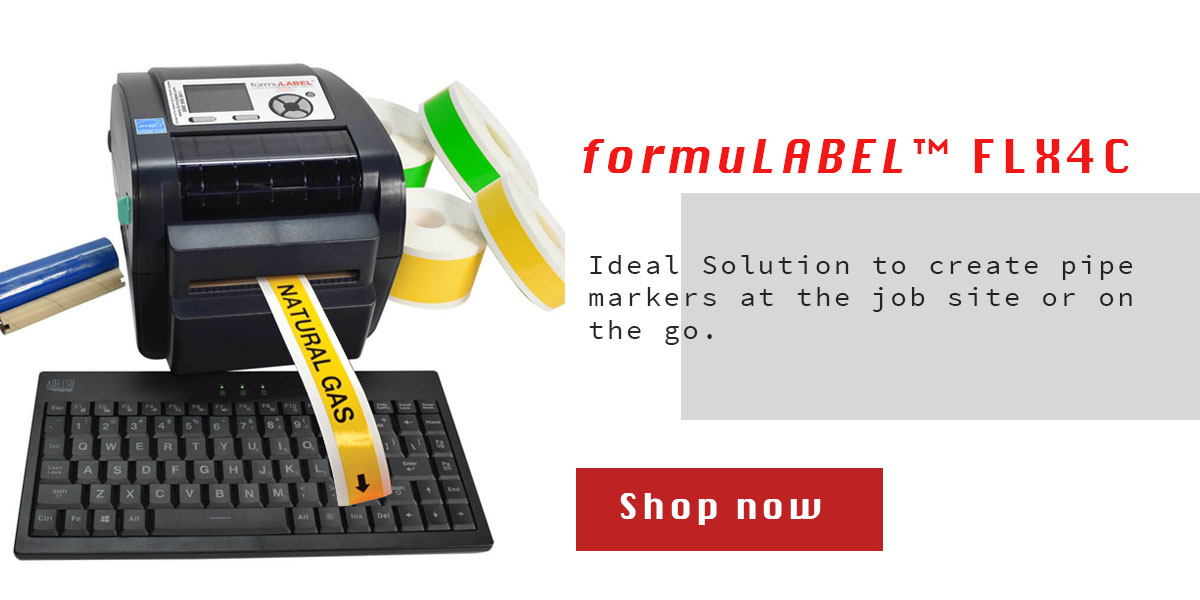
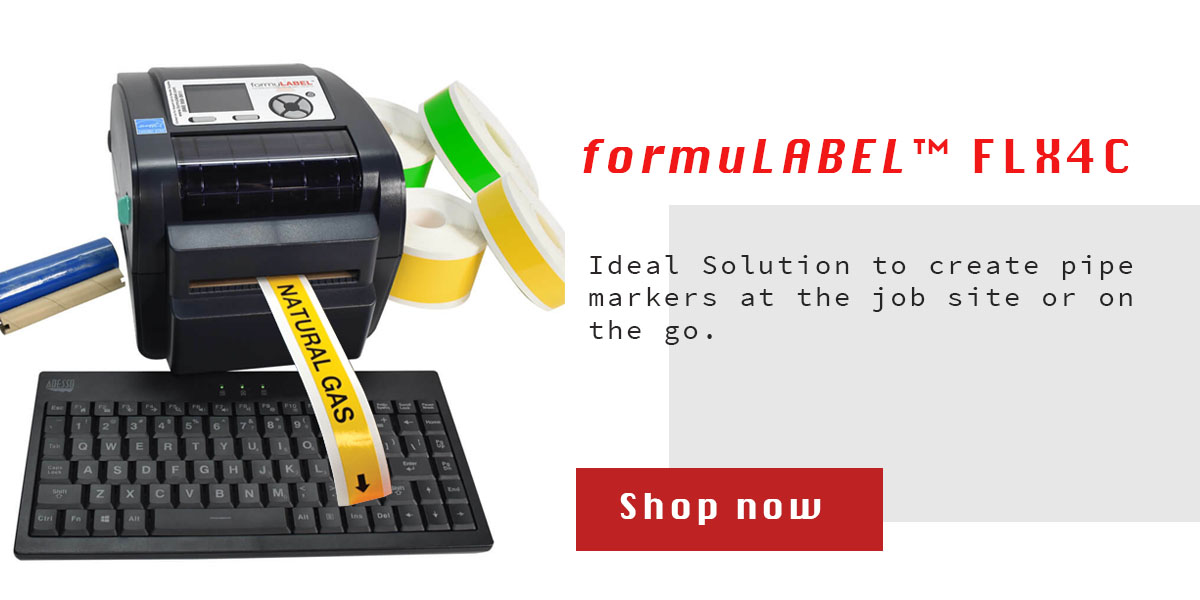
Updated higher resolution images

Changed region(s): [[0.555, 0.3, 1.0, 0.36]]

diff --git a/index.html b/index.html
@@ -67,52 +67,52 @@
 
     <section class="featured-product__container">
         <div class="featured-product__box">
-            <img class="featured-product__image" src="img/flx4c-printer-only240.240.jpg" />
+            <img class="featured-product__image" src="img/handheld_label_printer_LS8EQ_KIT_01.1200.1200.png" />
             <div class="featured-product__details">
                 <h2 class="featured-product__details-name">
-                    Product Name
+                    PanTher LS8EQ Handheld Printer Kit
                 </h2>
                 <p class="featured-product__details-price">
-                    $35.00
+                    $495.95
                 </p>
             </div>
             <button class="btn featured-product__btn"><a href="#">ADD TO CART</a></button>
         </div>
 
         <div class="featured-product__box">
-            <img class="featured-product__image" src="img/GHS_jumbo_tags_240.240.png" />
+            <img class="featured-product__image" src="img/flx4p-1.1200.1200.jpg" />
             <div class="featured-product__details">
                 <h2 class="featured-product__details-name">
-                    Product Name
+                    FLX4P Pipe Marking System
                 </h2>
                 <p class="featured-product__details-price">
-                    $35.00
+                    $1,495.95
                 </p>
             </div>
             <button class="btn featured-product__btn"><a href="#">ADD TO CART</a></button>
         </div>
 
         <div class="featured-product__box">
-            <img class="featured-product__image" src="img/ghs_label_sign_printer.240.240.png" />
+            <img class="featured-product__image" src="img/ghs_label_sign_printer_03_fl4c.1200.1200.png" />
             <div class="featured-product__details">
                 <h2 class="featured-product__details-name">
-                    Product Name
+                    4C formuLABEL™ Industrial Label Printer
                 </h2>
                 <p class="featured-product__details-price">
-                    $35.00
+                    $595.95
                 </p>
             </div>
             <button class="btn featured-product__btn"><a href="#">ADD TO CART</a></button>
         </div>
 
         <div class="featured-product__box">
-            <img class="featured-product__image" src="img/printed_arc_flash_signs.240.240.png" />
+            <img class="featured-product__image" src="img/formuLABEL_8E_industrial_sign_label_printer_01.1200.1200.png" />
             <div class="featured-product__details">
                 <h2 class="featured-product__details-name">
-                    Product Name
+                    8E formuLABEL™ Industrial Label Printer
                 </h2>
                 <p class="featured-product__details-price">
-                    $35.00
+                    $3,595.95
                 </p>
             </div>
             <button class="btn featured-product__btn"><a href="#">ADD TO CART</a></button>

diff --git a/css/style.css b/css/style.css
@@ -77,7 +77,18 @@ ul {
   grid-gap: 0.5rem;
   justify-items: center;
   align-items: center;
-  padding: 3rem 0; }
+  padding: 3rem 0;
+  position: relative; }
+  .promo-banner:after {
+    content: "";
+    background-color: #eeeeee;
+    opacity: 0.5;
+    position: absolute;
+    top: 1rem;
+    left: -4rem;
+    width: 110%;
+    height: 100%;
+    z-index: -1; }
   .promo-banner__item {
     align-self: center;
     justify-self: center; }

diff --git a/scss/style.scss b/scss/style.scss
@@ -113,6 +113,19 @@ ul {
   justify-items: center;
   align-items: center;
   padding: 3rem 0;
+  position: relative;
+
+  &:after {
+    content: "";
+    background-color: $grey-light;
+    opacity: 0.5;
+    position: absolute;
+    top: 1rem;
+    left: -4rem;
+    width: 110%;
+    height: 100%;
+    z-index: -1;
+  }
 
   &__item {
     align-self: center;
